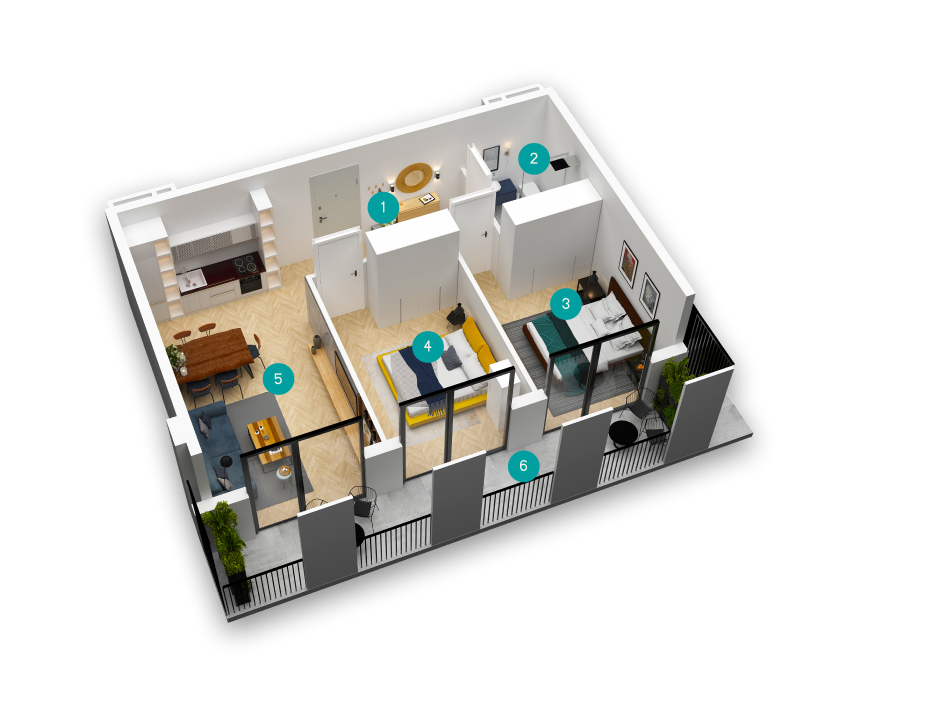
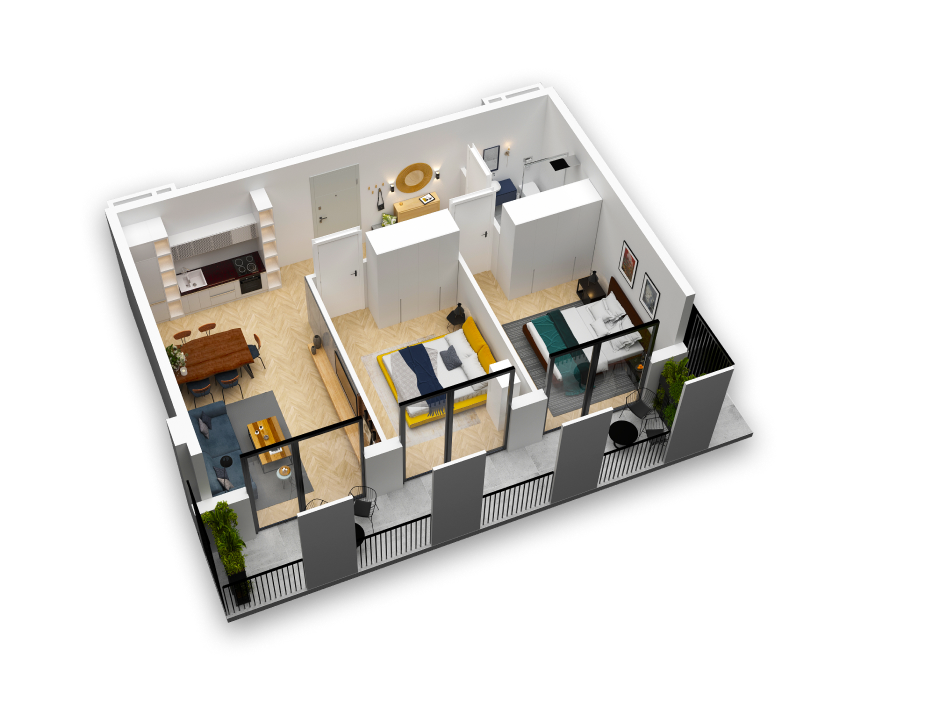
positioning numbers

diff --git a/src/components/Apartments/apartmentsInner/Apartment71.js b/src/components/Apartments/apartmentsInner/Apartment71.js
@@ -5,61 +5,35 @@ import logo from '../../../images/logo.svg'
 import './ApartmentInnerCSS.css'
 import m102inner from '../../../images/innerRenders/m71inner.png'
 
-const roomsArr = [
-    {   
-        id: 1,
-        number:1,
-        roomTypeGeo: 'ჰოლი',
-        roomTypeEng: 'Hall',
-        roomTypeRus: 'aaaa',
-        m2: '7.1 M2'      
-    },
+const pointerStyle6 ={
+    left: '54%',
+    top: '60%',
+}
 
-    {   
-        id: 2,
-        number:2,
-        roomTypeGeo: 'სააბაზანო',
-        roomTypeEng: 'Hall',
-        roomTypeRus: 'aaaa',
-        m2: '4 M2'
-    },
+const pointerStyle5 ={
+    left: '30%',
+    top: '50%'
+}
 
-    {
-        id: 3,
-        number:3,
-        roomTypeGeo: 'საძინებელი 1',
-        roomTypeEng: 'Hall',
-        roomTypeRus: 'aaaa',
-        m2: '12.7 M2'
-    },
+const pointerStyle4 ={
+    right: '55%',
+    top: '48%'
+}
 
-    {
-        id: 4,
-        number:4,
-        roomTypeGeo: 'საძინებელი 2',
-        roomTypeEng: 'Hall',
-        roomTypeRus: 'aaaa',
-        m2: '13.5 M2'
-    },
+const pointerStyle3 ={
+    right: '38%',
+    top: '43%'
+}
 
-    {
-        id: 5,
-        number:5,
-        roomTypeGeo: 'სტუდიო',
-        roomTypeEng: 'Hall',
-        roomTypeRus: 'aaaa',
-        m2: '20.4 M2'
-    },
+const pointerStyle2 ={
+    right: '40%',
+    top: '18%'
+}
 
-    {
-        id: 6,
-        number:6,
-        roomTypeGeo: 'აივანი',
-        roomTypeEng: 'Hall',
-        roomTypeRus: 'aaaa',
-        m2: '13.8 M2'
-    }
-]
+const pointerStyle1 ={
+    right: '58%',
+    top: '24%'
+}
 
 export default function Apartment71() {
 
@@ -70,6 +44,14 @@ export default function Apartment71() {
     const navbarLinkContact = useRef()
     const EngLanguage = useRef()
     const RusLanguage = useRef()
+
+    const [ballNumber, setBallNumber] = useState(null)
+    const [ball1txt, setBall1txt] = useState(null)
+    const [ball2txt, setBall2txt] = useState(null)
+    const [ball3txt, setBall3txt] = useState(null)
+    const [ball4txt, setBall4txt] = useState(null)
+    const [ball5txt, setBall5txt] = useState(null)
+    const [ball6txt, setBall6txt] = useState(null)
 
 
     const [isGeo, setIsGeo] = useState(false)
@@ -157,6 +139,68 @@ export default function Apartment71() {
         localStorage.setItem('language', 'rus')
     }
 
+    const roomsArr = [
+        {   
+            id: 1,
+            number:1,
+            roomTypeGeo: 'ჰოლი',
+            roomTypeEng: 'Hall',
+            roomTypeRus: 'aaaa',
+            m2: '7.1 M2',
+            forBold: `${ball1txt}`         
+        },
+    
+        {   
+            id: 2,
+            number:2,
+            roomTypeGeo: 'სააბაზანო',
+            roomTypeEng: 'Hall',
+            roomTypeRus: 'aaaa',
+            m2: '4 M2',
+            forBold: `${ball2txt}`   
+        },
+    
+        {
+            id: 3,
+            number:3,
+            roomTypeGeo: 'საძინებელი 1',
+            roomTypeEng: 'Hall',
+            roomTypeRus: 'aaaa',
+            m2: '12.7 M2',
+            forBold: `${ball3txt}`   
+        },
+    
+        {
+            id: 4,
+            number:4,
+            roomTypeGeo: 'საძინებელი 2',
+            roomTypeEng: 'Hall',
+            roomTypeRus: 'aaaa',
+            m2: '13.5 M2',
+            forBold: `${ball4txt}`   
+        },
+    
+        {
+            id: 5,
+            number:5,
+            roomTypeGeo: 'სტუდიო',
+            roomTypeEng: 'Hall',
+            roomTypeRus: 'aaaa',
+            m2: '20.4 M2',
+            forBold: `${ball5txt}`   
+        },
+    
+        {
+            id: 6,
+            number:6,
+            roomTypeGeo: 'აივანი',
+            roomTypeEng: 'Hall',
+            roomTypeRus: 'aaaa',
+            m2: '13.8 M2',
+            forBold: `${ball6txt}`   
+        }
+    ]
+
     return(
         <>
         <div className='Navbar'  style={{backgroundColor:'#A9C1A9'}}>
@@ -184,6 +228,118 @@ export default function Apartment71() {
 
                 <div className="apartment_main_inner_left">
                     <img src={m102inner} alt="m102inner" />
+
+                    <span style={pointerStyle6} className="pointers"
+                        onClick={()=>{
+                            if(ballNumber === 6){
+                                setBallNumber(null)
+                                setBall6txt(null)
+                            }else{
+                                setBallNumber(6)
+                                setBall6txt('bold')
+
+                                setBall1txt(null)
+                                setBall2txt(null)
+                                setBall3txt(null)
+                                setBall4txt(null)
+                                setBall5txt(null)
+                            }
+                        }}
+                    >6</span>
+
+                    <span style={pointerStyle5} className="pointers"
+                        onClick={()=>{
+                            if(ballNumber === 5){
+                                setBallNumber(null)
+                                setBall5txt(null)
+                            }else{
+                                setBallNumber(5)
+                                setBall5txt('bold')
+
+                                setBall1txt(null)
+                                setBall2txt(null)
+                                setBall3txt(null)
+                                setBall4txt(null)
+                                setBall6txt(null)
+                            }
+                        }}
+                    >5</span>
+
+                    <span style={pointerStyle4} className="pointers"
+                        onClick={()=>{
+                            if(ballNumber === 4){
+                                setBallNumber(null)
+                                setBall4txt(null)
+                            }else{
+                                setBallNumber(4)
+                                setBall4txt('bold')
+
+                                setBall1txt(null)
+                                setBall2txt(null)
+                                setBall3txt(null)
+                                setBall5txt(null)
+                                setBall6txt(null)
+                            }
+                        }}
+                    >4</span>
+
+                    <span style={pointerStyle3} className="pointers"
+                        onClick={()=>{
+                            if(ballNumber === 3){
+                                setBallNumber(null)
+                                setBall3txt(null)
+                            }else{
+                                setBallNumber(3)
+                                setBall3txt('bold')
+
+                                setBall1txt(null)
+                                setBall2txt(null)
+                                setBall4txt(null)
+                                setBall5txt(null)
+                                setBall6txt(null)
+                            }
+                        }}
+                    >3</span>
+
+                    <span style={pointerStyle2} className="pointers"
+                    onClick={()=>{
+                        if(ballNumber === 2){
+                            setBallNumber(null)
+                            setBall2txt(null)
+                        }else{
+                            setBallNumber(2)
+                            setBall2txt('bold')
+                            
+                            setBall1txt(null)
+                            setBall3txt(null)
+                            setBall4txt(null)
+                            setBall5txt(null)
+                            setBall6txt(null)
+                        }
+                    }}
+                    >2</span>
+
+                    <span 
+                        style={pointerStyle1} 
+                        className="pointers" 
+                        onClick={()=> {
+                            if(ballNumber === 1){
+                                setBallNumber(null)
+                                setBall1txt(null)
+                            }else{
+                                setBallNumber(1)
+                                setBall1txt('bold')
+
+                                setBall2txt(null)
+                                setBall3txt(null)
+                                setBall4txt(null)
+                                setBall5txt(null)
+                                setBall6txt(null)
+                            }
+                        }
+                            
+                        }
+                        >1</span>
                 </div>
 
                 <div className="apartment_main_inner_right">
@@ -198,12 +354,12 @@ export default function Apartment71() {
                                         <div className="number_name">
                                             <div className="numberRounded">{room.number}</div>
 
-                                            <p className={roomGeo}>{room.roomTypeGeo}</p>
-                                            <p className={roomEng}>{room.roomTypeEng}</p>
-                                            <p className={roomRus}>{room.roomTypeRus}</p>
+                                            <p className={roomGeo}><span className={room.forBold}>{room.roomTypeGeo}</span></p>
+                                            <p className={roomEng}><span className={room.forBold}>{room.roomTypeEng}</span></p>
+                                            <p className={roomRus}><span className={room.forBold}>{room.roomTypeRus}</span></p>
                                         </div>
 
-                                        <p>{room.m2}</p>
+                                        <p className={room.forBold}>{room.m2}</p>
                                     </div>
                                 </div>
                             )

diff --git a/src/components/Apartments/apartmentsInner/Apartment71Sec.js b/src/components/Apartments/apartmentsInner/Apartment71Sec.js
@@ -352,7 +352,7 @@ export default function Apartment71Sec() {
                                 <div className="apartment_rooms" key={room.id}>
                                     <div className="room">
 
-                                    <div className="number_name">
+                                        <div className="number_name">
                                             <div className="numberRounded">{room.number}</div>
 
                                             <p className={roomGeo}><span className={room.forBold}>{room.roomTypeGeo}</span></p>
